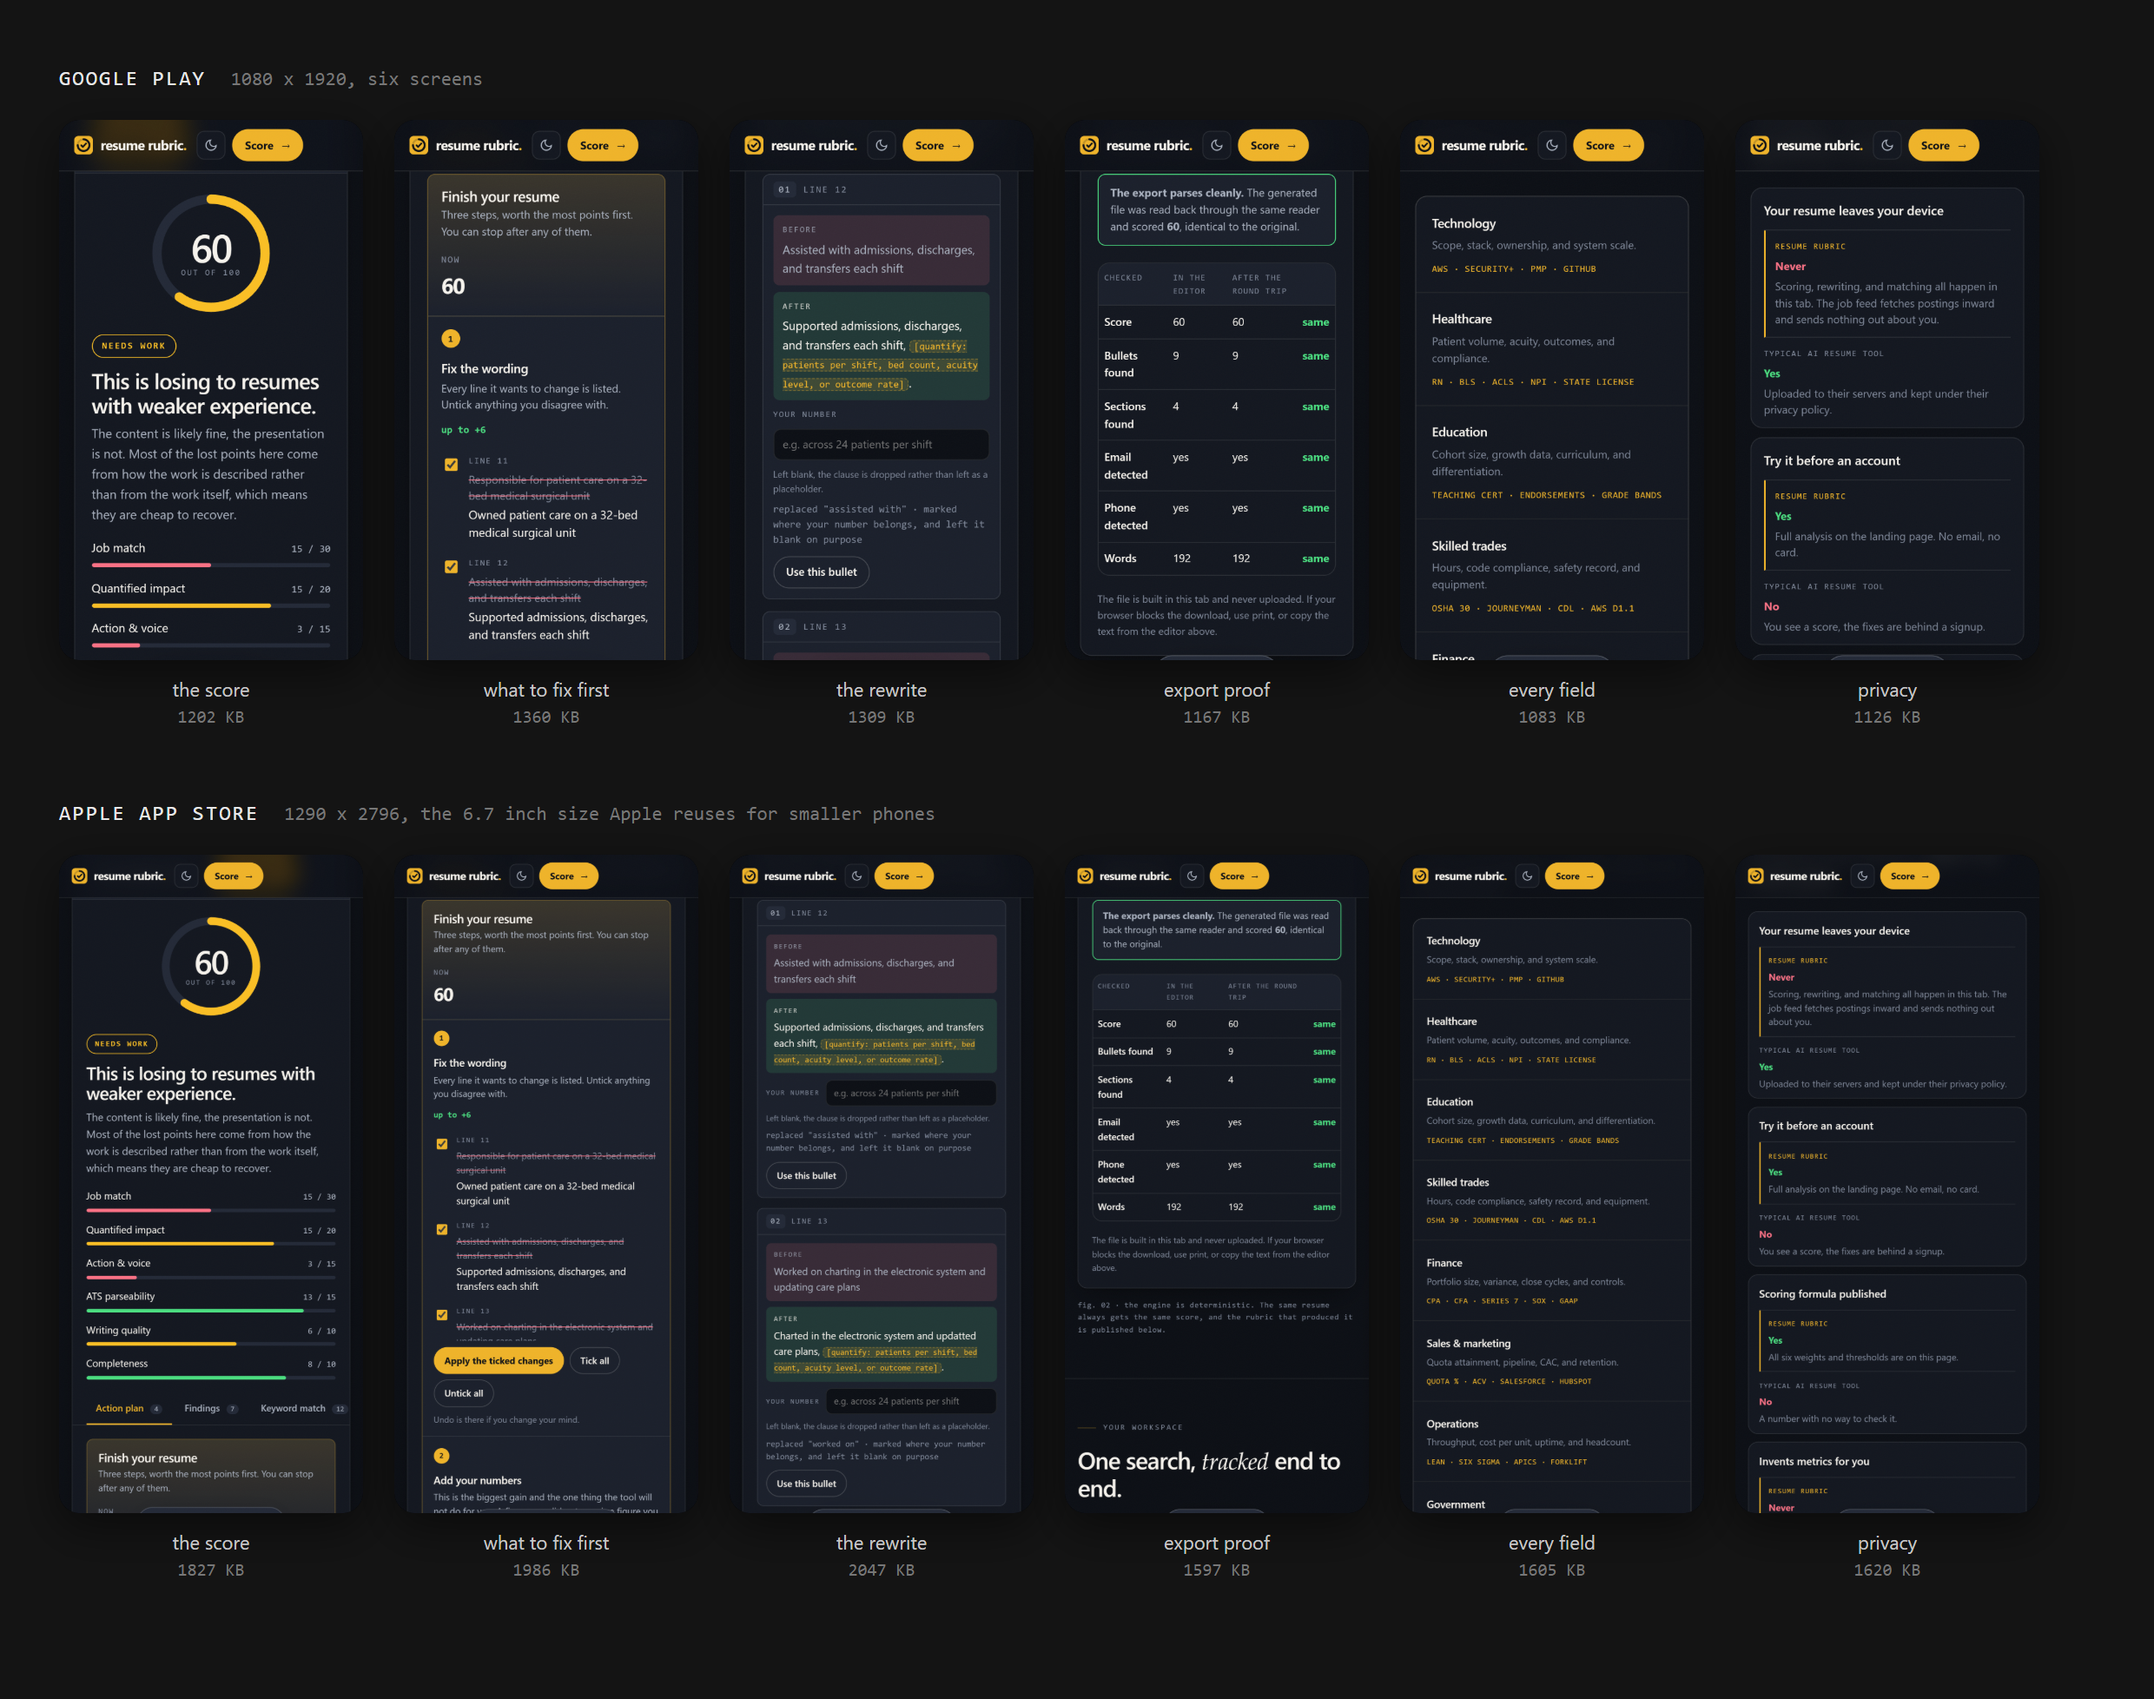
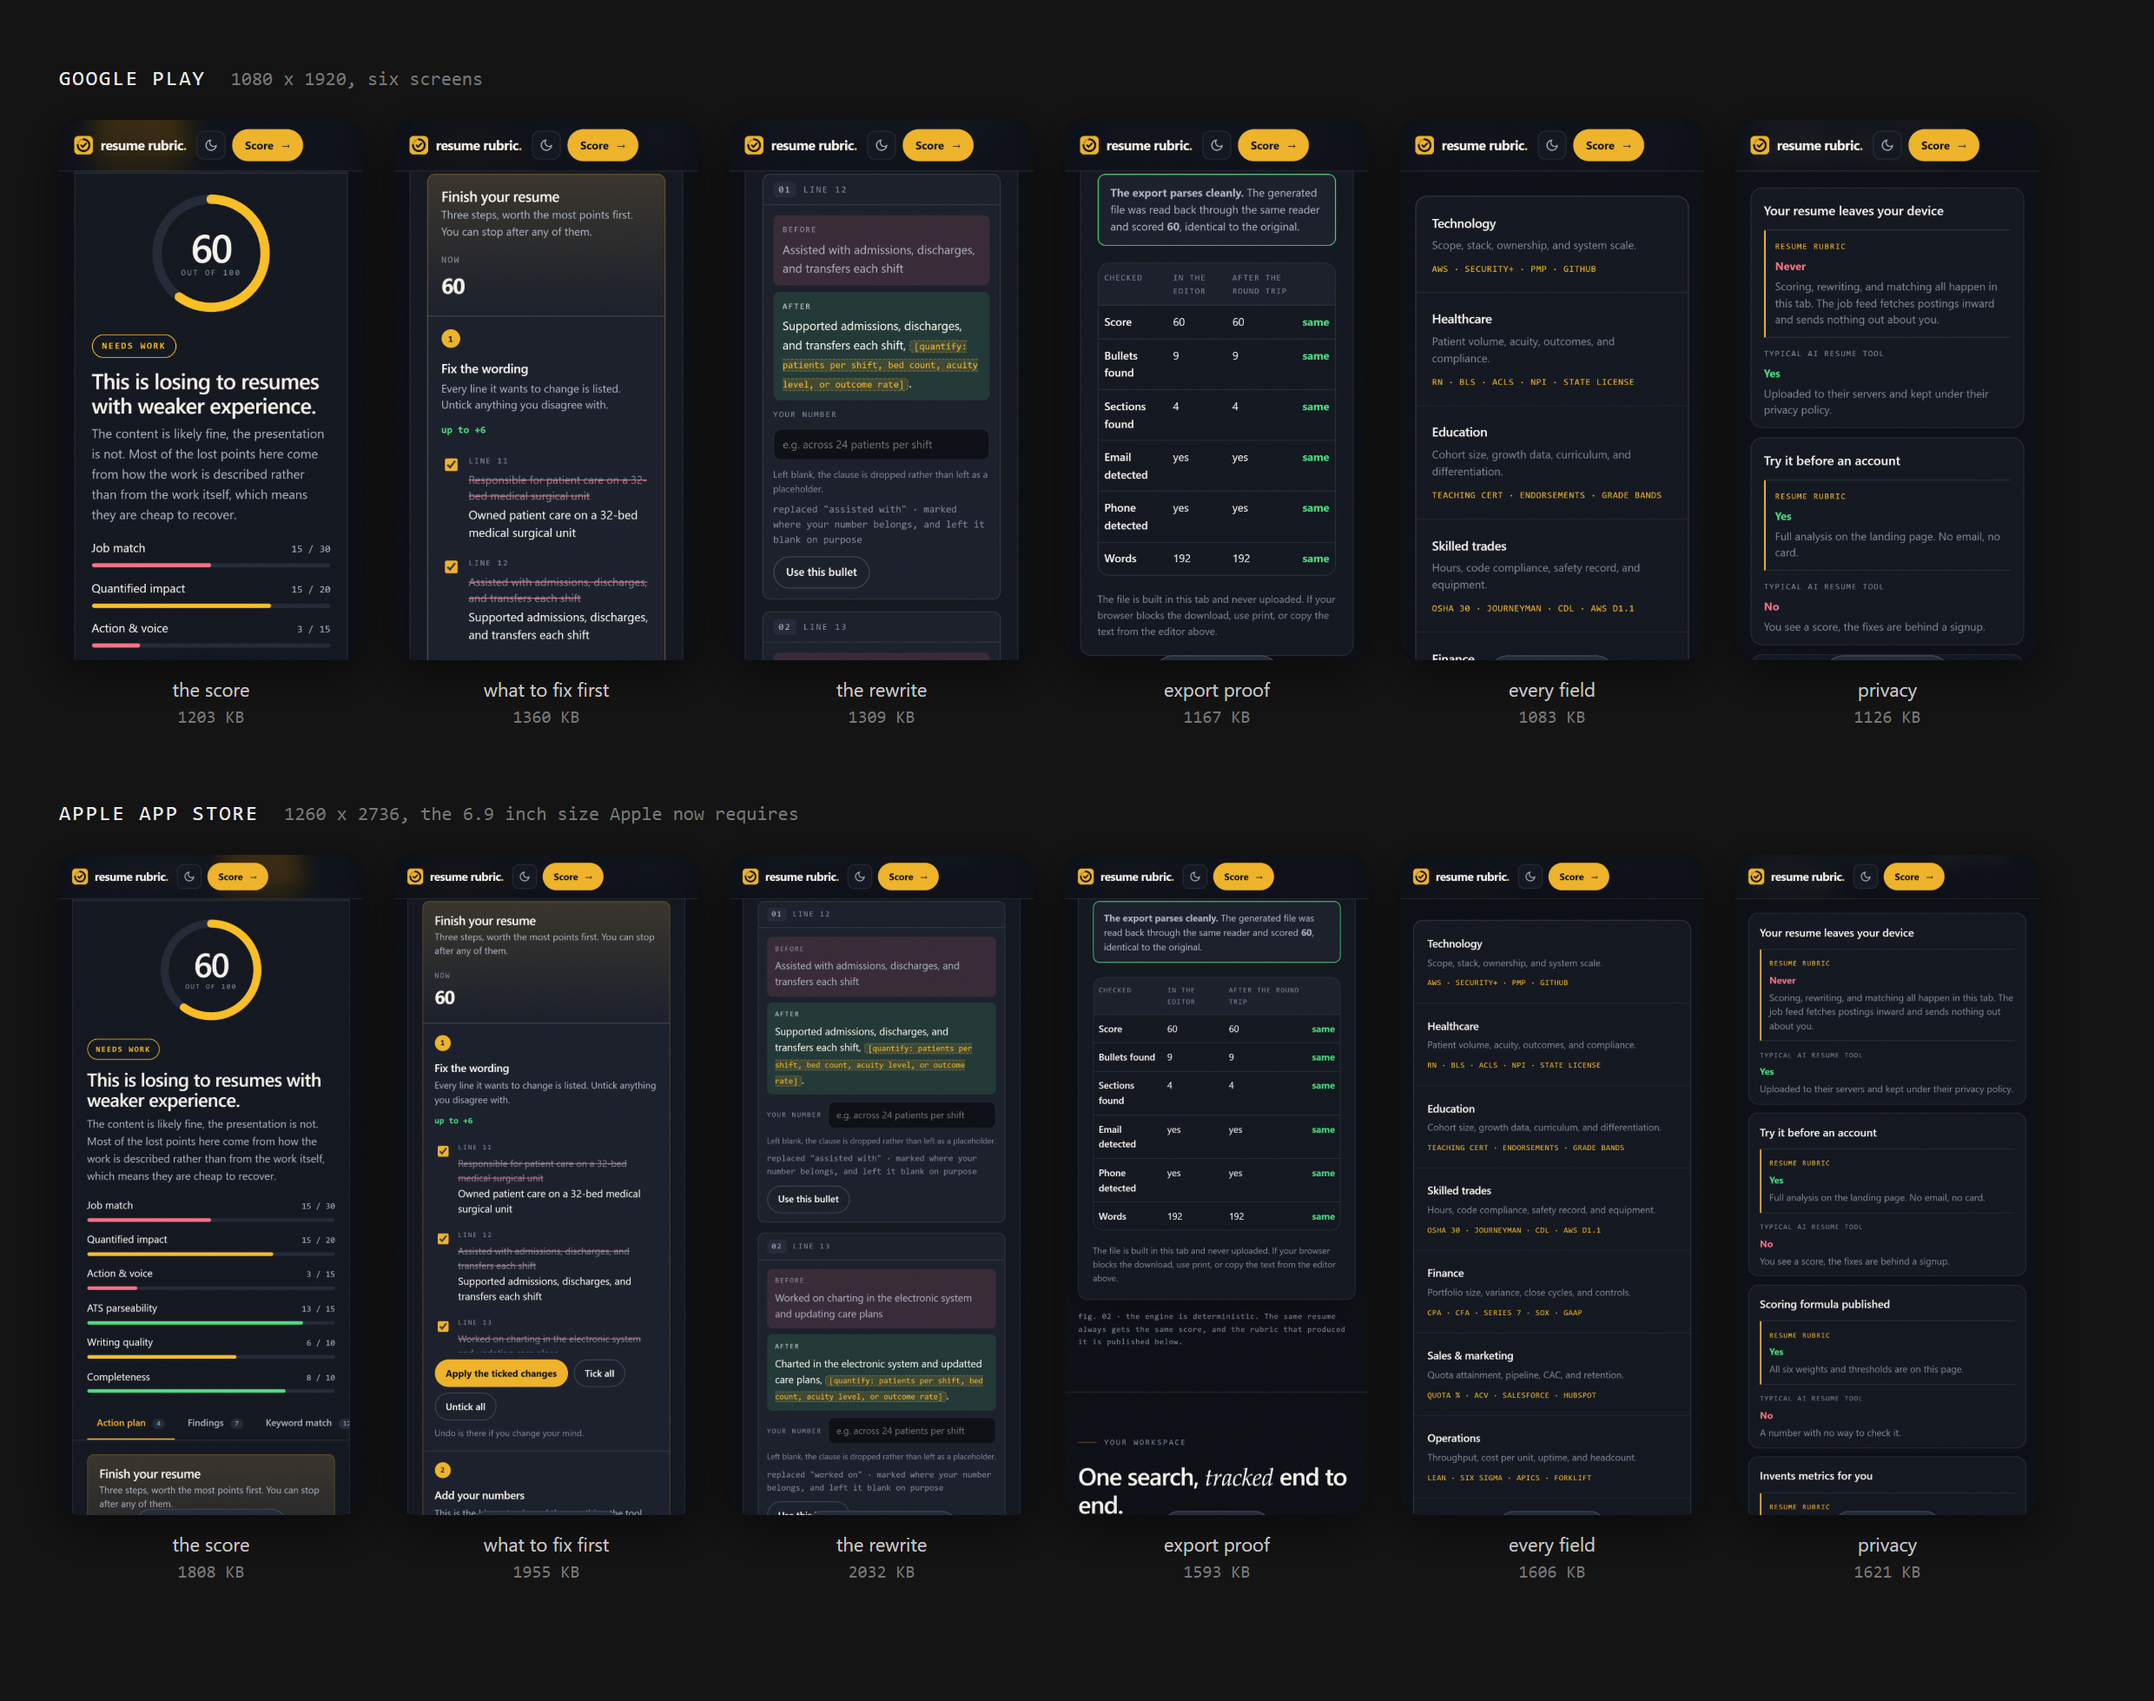
Fix three things that would have bounced the iOS submission
Pre-flight on the iOS project before starting the Apple process, and all
three of these would have been found the slow way.

The screenshots were the real one. Apple's required iPhone size is now 6.9
inch at 1260 x 2736. The 1290 x 2796 set we had is the older 6.7 inch size
and is no longer on Apple's accepted list, so it gets rejected at upload.
shoot.js now renders 420 by 912 at 3x, and the files are named ios69 rather
than ios67 so an old set cannot be picked up by mistake.

Info.plist had no ITSAppUsesNonExemptEncryption. Without it App Store Connect
asks the export compliance question on every upload, and a build with it
unanswered never reaches TestFlight. The app uses nothing but standard HTTPS,
which is exempt, so it is set to false.

UIRequiredDeviceCapabilities was armv7, which is what the Capacitor template
ships. Every device that can run this is arm64, and arm64 is what Apple
documents for anything since iOS 11. Validated the file through a real XML
parser afterwards rather than counting tags.

Both plist values are now written down in the guide, because regenerating the
iOS project with Capacitor would quietly put the template defaults back.

Deliberately not added: an app level PrivacyInfo.xcprivacy. Capacitor 6 ships
privacy manifests in its own pods, and this app's native code calls none of
the required reason APIs itself, so it would mean hand editing project.pbxproj
to register a file that changes nothing. If Apple ever emails about
[…]

diff --git a/shots/all-shots.js b/shots/all-shots.js
@@ -35,8 +35,8 @@ const HTML = `<!doctype html><meta charset="utf-8">
 <body style="margin:0;background:#141414;padding:32px 34px;font-family:-apple-system,Segoe UI,Roboto,Arial">
   ${head("Google Play", "1080 x 1920, six screens")}
   ${row("play", 175)}
-  ${head("Apple App Store", "1290 x 2796, the 6.7 inch size Apple reuses for smaller phones")}
-  ${row("ios67", 175)}
+  ${head("Apple App Store", "1260 x 2736, the 6.9 inch size Apple now requires")}
+  ${row("ios69", 175)}
 </body>`;
 
 (async () => {

diff --git a/shots/shoot.js b/shots/shoot.js
@@ -20,7 +20,7 @@ const wait = ms => new Promise(r => setTimeout(r, ms));
 
 const DEVICES = [
   { name: "play", css: [360, 640], scale: 3 },
-  { name: "ios67", css: [430, 932], scale: 3 }
+  { name: "ios69", css: [420, 912], scale: 3 }   // 1260 x 2736, Apple's required 6.9 inch
 ];
 
 /* put a chosen element just under the sticky nav, so the shot is framed on it */

diff --git a/APPLE-SUBMISSION.md b/APPLE-SUBMISSION.md
@@ -105,6 +105,22 @@ In **App Store Connect**, go to **My Apps**, press **+**, then **New App**.
 The bundle ID has to match the app exactly. It is already set to that in
 `app/capacitor.config.json`, so do not change it.
 
+## 2b. Two things already set in the project
+
+You do not need to do anything here. This is a note so they are not lost if the iOS
+project is ever regenerated by Capacitor, which would put the template defaults back.
+
+**`ITSAppUsesNonExemptEncryption` is set to false** in `Info.plist`. Without it, App
+Store Connect asks the export compliance question on every single upload, and a build
+with it unanswered will not reach TestFlight. The app uses nothing but standard
+HTTPS, which is exempt, so false is the correct answer.
+
+**`UIRequiredDeviceCapabilities` is `arm64`,** not the `armv7` the Capacitor template
+ships. Every device that can run this is arm64, and arm64 is what Apple documents for
+anything since iOS 11.
+
+---
+
 ## 3. Getting a signed build up, without a Mac
 
 This is the only genuinely awkward step. Three options, cheapest first.
@@ -207,9 +223,12 @@ https://resume-rubric-production.up.railway.app/privacy
 **Age rating:** 4+, answer No to everything in the questionnaire
 **Price:** $4.99, one time. See PRICING.md.
 
-**Screenshots:** the six `ios67-*.png` files from `app/store/screenshots/`. They are
-1290 x 2796, which is the 6.7 inch size. Apple reuses them for smaller phones, so
-that one set is enough.
+**Screenshots:** the six `ios69-*.png` files from `app/store/screenshots/`. They are
+**1260 x 2736**, which is the 6.9 inch size Apple now requires for any app that runs
+on iPhone. Apple scales that set down for every smaller phone, so one set is enough.
+
+The older 6.7 inch size, 1290 x 2796, is no longer on Apple's accepted list and gets
+rejected at upload. If you have an old copy of those files anywhere, do not use them.
 
 ---
 
